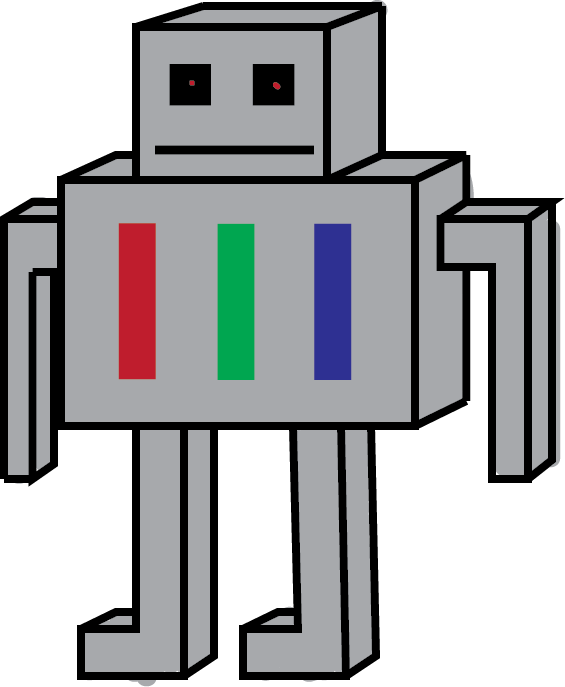
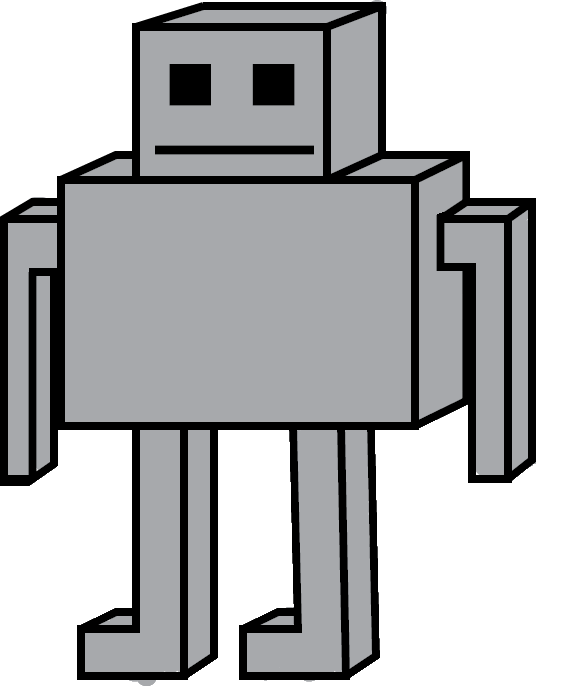
Updated Roboticon Textures
Now includes food roboticon textures

diff --git a/core/src/io/github/teamfractal/actors/RoboticonMarketActors.java b/core/src/io/github/teamfractal/actors/RoboticonMarketActors.java
@@ -26,7 +26,7 @@ public class RoboticonMarketActors extends Table {
 		no_cust_texture = new Texture(Gdx.files.internal("roboticon_images/robot.png"));
 		energy_texture = new Texture(Gdx.files.internal("roboticon_images/robot_energy.png"));
 		ore_texture = new Texture(Gdx.files.internal("roboticon_images/robot_ore.png"));
-		food_texture = new Texture(Gdx.files.internal("roboticon_images/robot_question.png")); //TODO: Create food roboticon texture and insert path here
+		food_texture = new Texture(Gdx.files.internal("roboticon_images/robot_food.png"));
 		no_robotic_texture = new Texture(Gdx.files.internal("roboticon_images/no_roboticons.png"));
 	}
 
